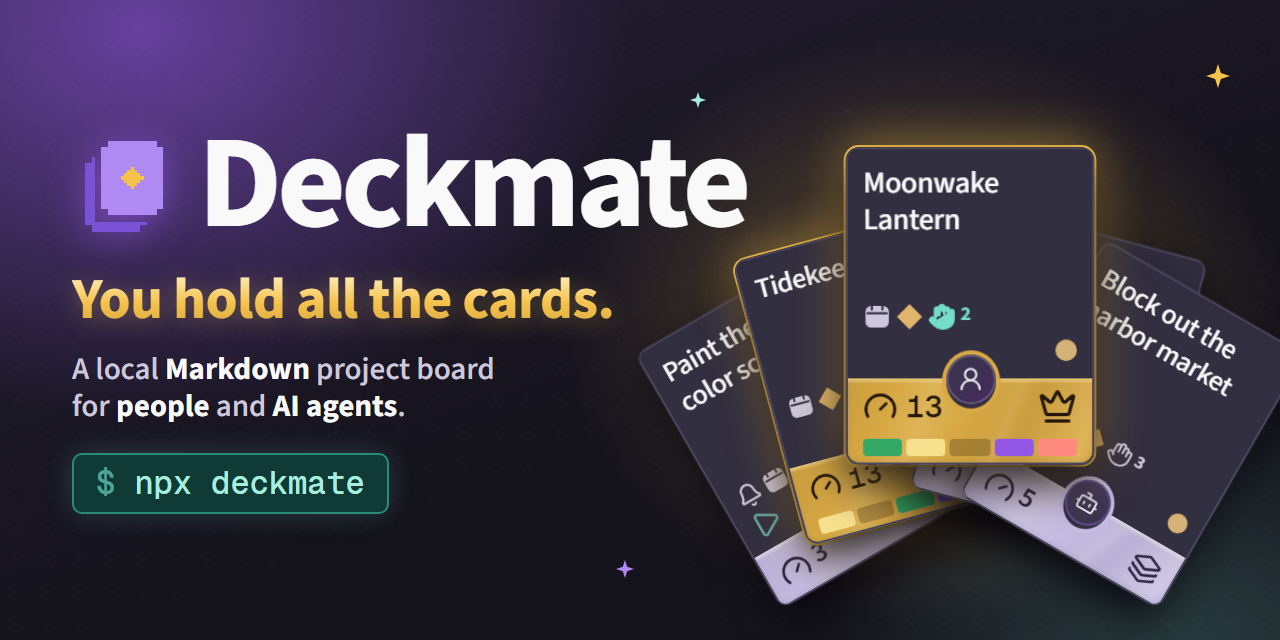
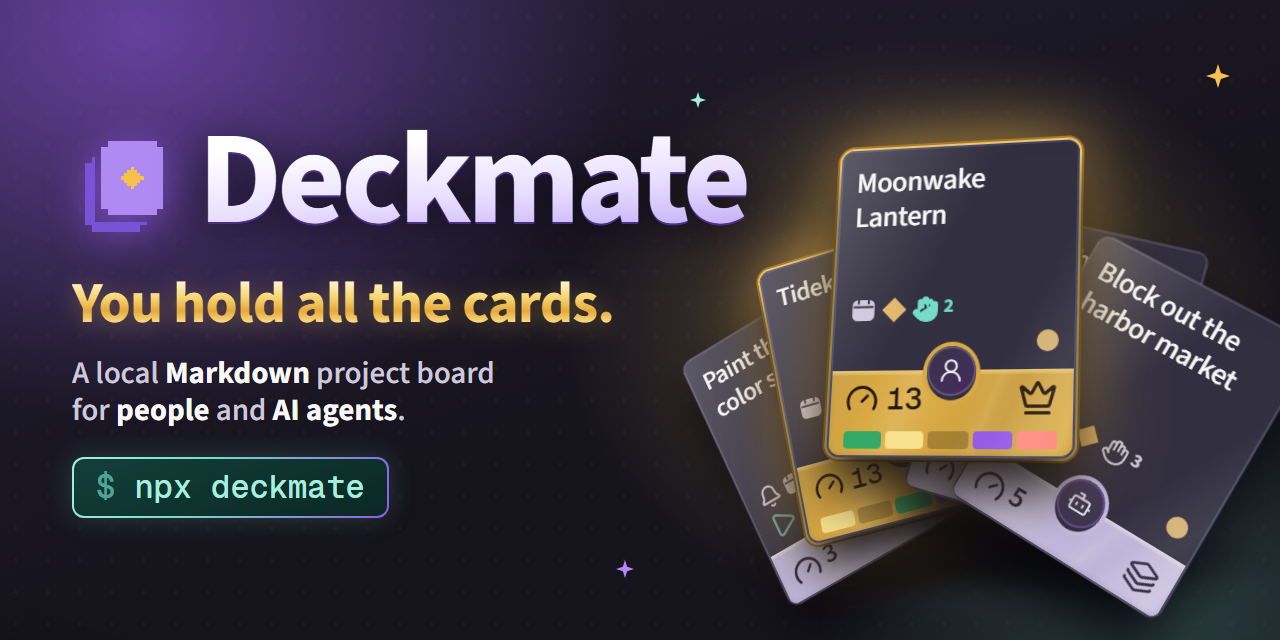
docs: premium 3D finish for the social preview
Tilts the hand of cards in perspective with depth per card, adds a glare
across card faces, metallic gradients on the wordmark and slogan, a
gradient border on the npx chip and a vignette. 1280x640, 612,138 bytes.

diff --git a/docs/social-preview.html b/docs/social-preview.html
@@ -20,30 +20,40 @@
         radial-gradient(520px 360px at 1180px 640px, #74dcc833, transparent 70%),
         linear-gradient(160deg, #241f33, var(--night) 60%); }
     /* A faint pixel grid recalls the board and the pixel mark without competing with the cards. */
+    .stage::after { content: ""; position: absolute; inset: 0; pointer-events: none; background: radial-gradient(130% 120% at 50% 45%, transparent 55%, #0000008c); }
     .stage::before { content: ""; position: absolute; inset: 0; opacity: .35;
       background-image: radial-gradient(#ffffff26 1.2px, transparent 1.6px); background-size: 32px 32px; }
     .copy { position: absolute; left: 72px; top: 0; bottom: 0; width: 600px; display: flex; flex-direction: column; justify-content: center; }
     .brand { display: flex; align-items: center; gap: 22px; }
     .logo { width: 104px; height: 104px; image-rendering: pixelated; filter: drop-shadow(0 6px 18px #9258e5aa); }
-    h1 { margin: 0; font-size: 132px; font-weight: 750; line-height: .9; letter-spacing: -.035em; }
+    h1 { margin: 0; padding-bottom: 8px; font-size: 132px; font-weight: 750; line-height: .9; letter-spacing: -.035em;
+      background: linear-gradient(175deg, #ffffff 20%, #e9e0ff 55%, #b79cf2 100%); -webkit-background-clip: text; background-clip: text; color: transparent;
+      filter: drop-shadow(0 2px 0 #4b2f86) drop-shadow(0 10px 24px #0a0812cc); }
     .slogan { margin: 26px 0 0; font-size: 58px; font-weight: 750; line-height: 1; letter-spacing: -.015em;
-      background: linear-gradient(180deg, #fff2c8, var(--gold) 55%, #d8a944); -webkit-background-clip: text; background-clip: text; color: transparent;
+      background: linear-gradient(180deg, #fff6d6 8%, #f7d775 38%, #e5a93a 62%, #f9dc86 82%, #c98d2a); -webkit-background-clip: text; background-clip: text; color: transparent;
       filter: drop-shadow(0 3px 12px #e5b65055); }
     .tagline { margin: 22px 0 28px; color: var(--muted); font-size: 31px; font-weight: 550; line-height: 1.2; }
     .tagline b { color: var(--ink); font-weight: 700; }
-    code { align-self: flex-start; padding: 9px 22px; border: 2px solid var(--mint-edge); border-radius: 10px; background: var(--mint-ground);
+    code { align-self: flex-start; padding: 9px 22px; border: 2px solid transparent; border-radius: 12px;
+      background: linear-gradient(160deg, #123f3a, #0b2724) padding-box, linear-gradient(120deg, #a8eedf, #74dcc8 40%, #9258e5) border-box;
       color: var(--mint); font: 500 32px/1.2 "Geist Mono", monospace; box-shadow: 0 0 28px #74dcc833; }
     code::before { content: "$ "; color: #74dcc8aa; }
-    .cards { position: absolute; left: 670px; top: 70px; width: 600px; height: 540px; }
+    .cards { position: absolute; left: 670px; top: 70px; width: 600px; height: 540px; perspective: 1300px; }
+    .fan { position: absolute; inset: 0; transform-style: preserve-3d; transform: rotateX(12deg) rotateY(-14deg) rotateZ(2deg); }
+    /* A soft floor shadow anchors the floating hand. */
+    .floor { position: absolute; left: 60px; right: 0; bottom: 6px; height: 90px; border-radius: 50%; background: radial-gradient(closest-side, #000000b0, transparent); filter: blur(6px); }
     .card { position: absolute; left: 185px; top: 150px; width: 230px; height: 294px; overflow: hidden; border-radius: 12px;
-      transform-origin: 50% 165%; box-shadow: 0 18px 40px #07060ccc, 0 0 0 1px #ffffff1a; }
+      transform-origin: 50% 165%; box-shadow: 0 30px 50px #07060cdd, 0 0 0 1px #ffffff26; }
+    /* Glare across the card face gives the matte top a lacquered, premium finish. */
+    .card::after { content: ""; position: absolute; inset: 0; border-radius: inherit; pointer-events: none;
+      background: linear-gradient(118deg, #ffffff38 0%, #ffffff10 28%, transparent 42%, transparent 70%, #ffffff14 86%, transparent 100%); }
     .card img { position: absolute; top: -16px; left: calc(-16px - 262px * var(--i)); width: 1310px; height: 326px; }
-    .card.hero { box-shadow: 0 18px 40px #07060ccc, 0 0 0 2px #f5c24c, 0 0 46px #e5b650aa; }
-    .c0 { transform: rotate(-30deg) translateY(14px); z-index: 1; }
-    .c1 { transform: rotate(-15deg) translateY(-4px); z-index: 2; }
-    .c2 { transform: translateY(-34px) scale(1.08); z-index: 5; }
-    .c3 { transform: rotate(15deg) translateY(-4px); z-index: 3; }
-    .c4 { transform: rotate(30deg) translateY(14px); z-index: 4; }
+    .card.hero { box-shadow: 0 30px 50px #07060cdd, 0 0 0 2px #f9dc86, 0 0 0 4px #b8822a, 0 0 70px #f0bd55cc; }
+    .c0 { transform: rotate(-30deg) translateY(14px) translateZ(-40px); }
+    .c1 { transform: rotate(-15deg) translateY(-4px) translateZ(-10px); }
+    .c2 { transform: translateY(-40px) translateZ(70px) scale(1.04); }
+    .c3 { transform: rotate(15deg) translateY(-4px) translateZ(10px); }
+    .c4 { transform: rotate(30deg) translateY(14px) translateZ(20px); }
     /* Pixel sparkles in the mark's pip shape. */
     .spark { position: absolute; width: 24px; height: 24px; background: var(--c); image-rendering: pixelated;
       clip-path: polygon(50% 0, 62% 38%, 100% 50%, 62% 62%, 50% 100%, 38% 62%, 0 50%, 38% 38%); filter: drop-shadow(0 0 8px var(--c)); }
@@ -61,11 +71,14 @@
       <code>npx deckmate</code>
     </section>
     <div class="cards" aria-label="Five real cards from the sample project, fanned like a hand">
+      <div class="floor"></div>
+      <div class="fan">
       <div class="card c0" style="--i: 2"><img src="social-cards.png" alt=""></div>
       <div class="card c1 hero" style="--i: 1"><img src="social-cards.png" alt=""></div>
       <div class="card c2 hero" style="--i: 0"><img src="social-cards.png" alt="Moonwake Lantern, a golden Hero card"></div>
       <div class="card c3" style="--i: 3"><img src="social-cards.png" alt=""></div>
       <div class="card c4" style="--i: 4"><img src="social-cards.png" alt="A task owned by an AI agent"></div>
+      </div>
     </div>
     <i class="spark" style="--c: #f5c24c; left: 1206px; top: 64px"></i>
     <i class="spark" style="--c: #a8eedf; left: 690px; top: 92px; width: 16px; height: 16px"></i>
